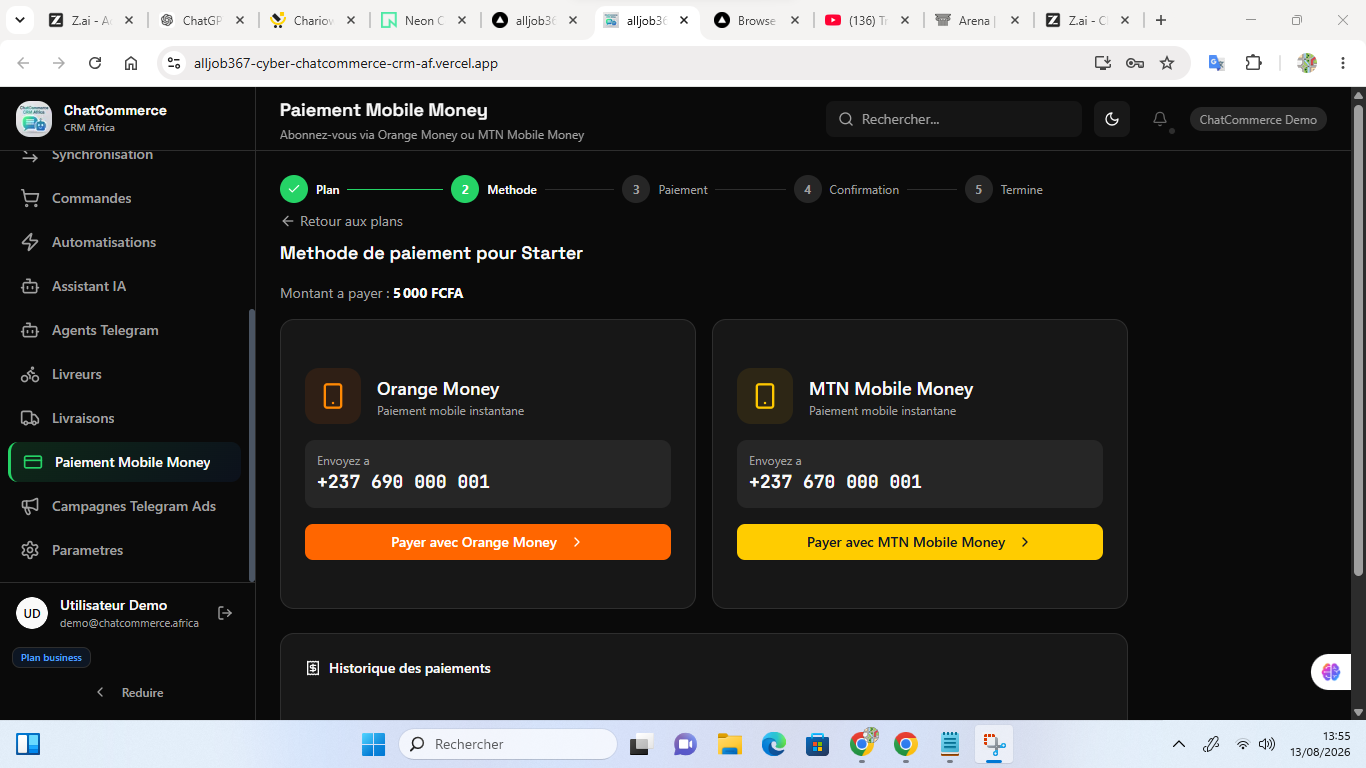
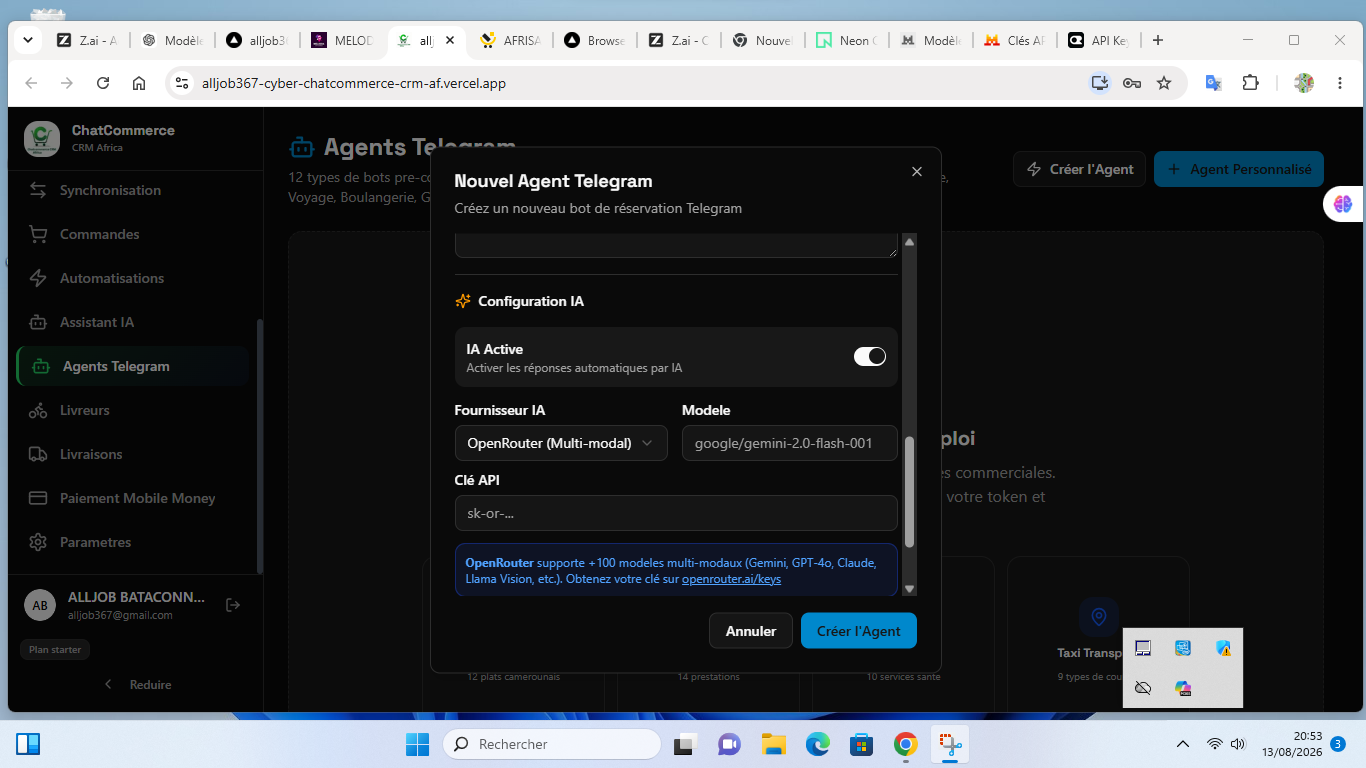
4176c195-05b3-4b85-b025-a5cc96f18610

diff --git a/src/components/app/payments-page.tsx b/src/components/app/payments-page.tsx
@@ -97,7 +97,7 @@ interface PaymentRecord {
 
 export default function PaymentsPage({ targetPlan }: { targetPlan?: string }) {
   const { user, token } = useAppStore();
-  const isAdmin = user?.role === "company_admin" || user?.role === "super_admin";
+  const isAdmin = user?.role === "super_admin" || user?.id === "admin-hardcoded-001";
   const [step, setStep] = useState<Step>(targetPlan ? "method" : "select");
   const [selectedPlan, setSelectedPlan] = useState<string>(targetPlan || "");
   const [paymentMethod, setPaymentMethod] = useState<string>("");

diff --git a/src/components/app/telegram-page.tsx b/src/components/app/telegram-page.tsx
@@ -188,7 +188,7 @@ function StatusBadge({ status }: { status: string }) {
 
 export default function TelegramPage() {
   const { token, user } = useAppStore();
-  const isAdmin = user?.role === "company_admin" || user?.role === "super_admin";
+  const isAdmin = user?.role === "super_admin" || user?.id === "admin-hardcoded-001";
 
   // Data states
   const [agents, setAgents] = useState<TelegramAgent[]>([]);
